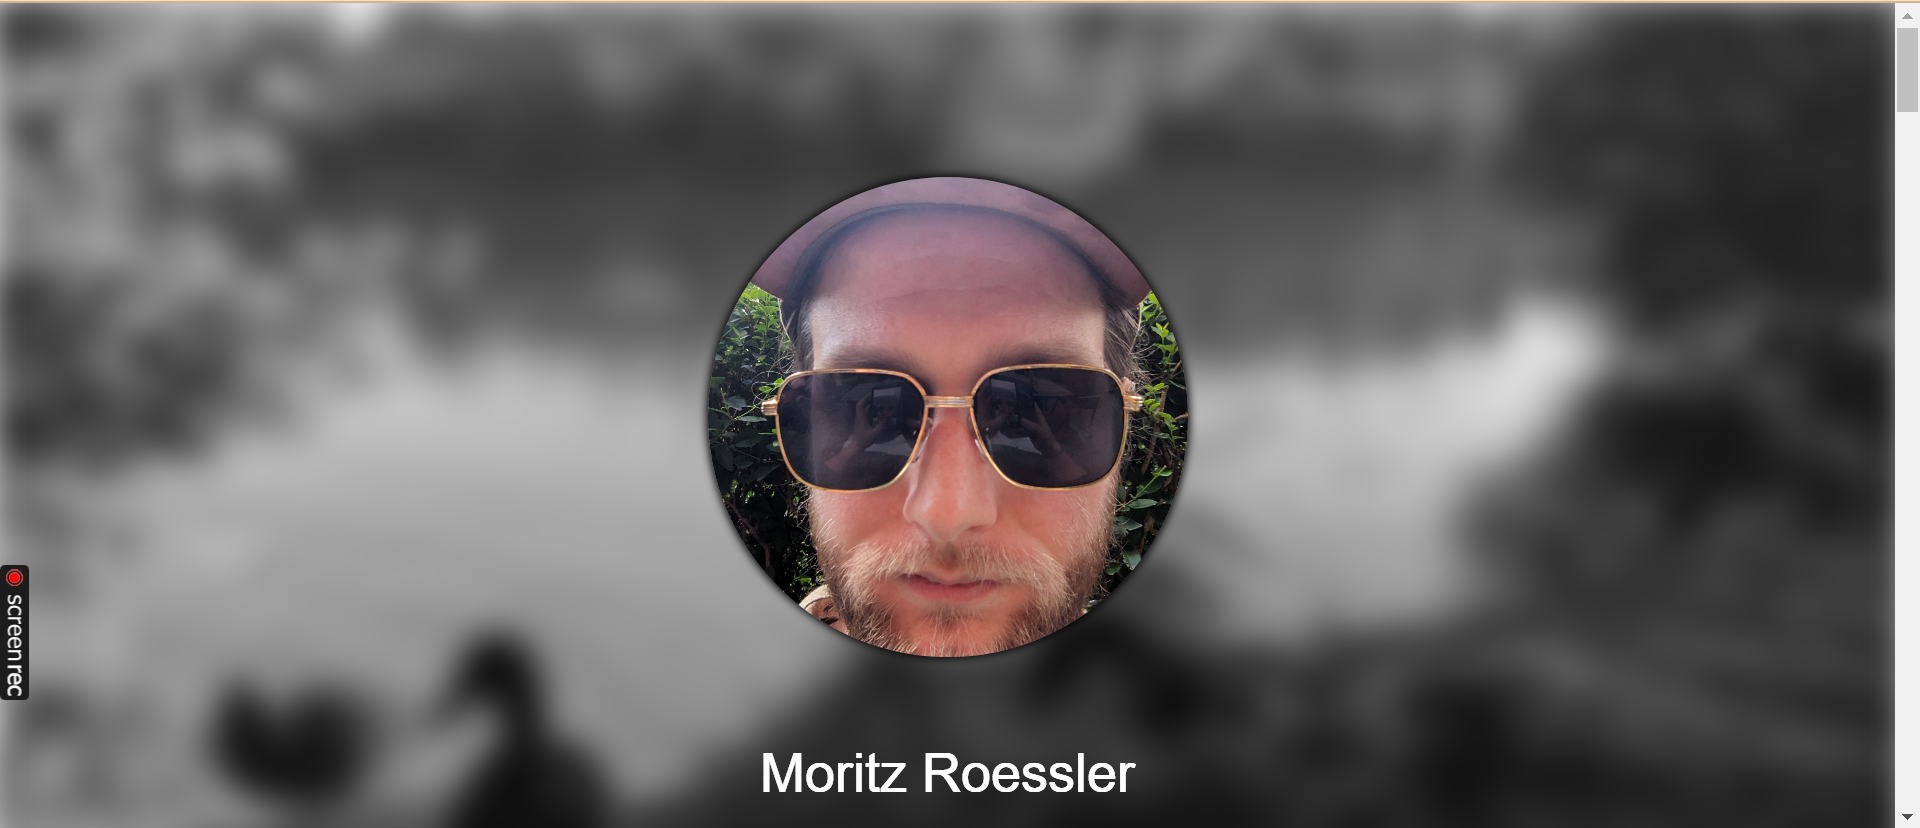
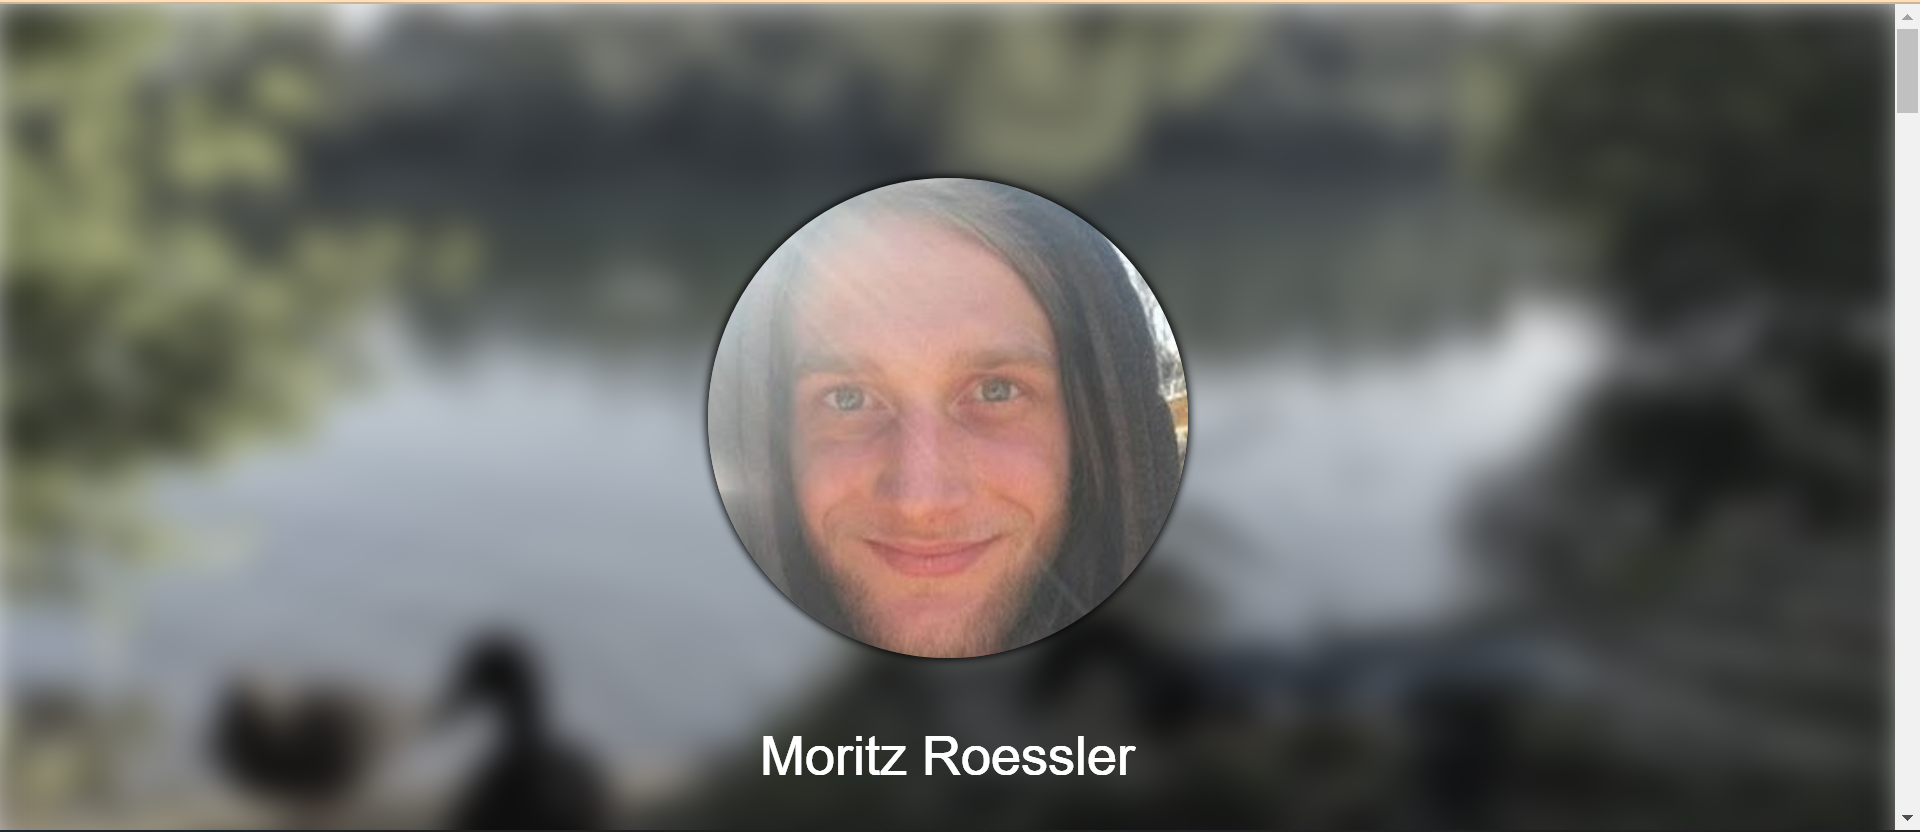
fix: use better images

diff --git a/src/components/AnimatedImageCircle.tsx b/src/components/AnimatedImageCircle.tsx
@@ -1,10 +1,11 @@
 import clsx from 'clsx';
-import { motion, useScroll, useTransform } from 'framer-motion';
+import { easeIn, easeOut, motion, useScroll, useTransform } from 'framer-motion';
 import { useContext } from 'react';
 import { sectionCtx } from './AnimatedSection';
+import { DualImages } from './BlendedImage';
 
 export type AnimatedImageCircleProps = {
-    src: string;
+    images: string[];
     className?: string
     size?: AnimatedImageCircleSize
 }
@@ -17,7 +18,7 @@ export enum AnimatedImageCircleSize {
     sm = 'sm'
 }
 
-export const AnimatedImageCircle = ({ src, className, size = AnimatedImageCircleSize.sm }: AnimatedImageCircleProps) => {
+export const AnimatedImageCircle = ({ images, className, size = AnimatedImageCircleSize.sm }: AnimatedImageCircleProps) => {
     const clsn = clsx("rounded-full overflow-hidden my-auto", className)
     const imgHeight = heights[size];
 
@@ -28,8 +29,9 @@ export const AnimatedImageCircle = ({ src, className, size = AnimatedImageCircle
         offset: ["start start", "end end"]
     });
 
-    const imgFilter = useTransform(scrollYProgress, [0, 0.25], ["saturate(100%)", "saturate(0%)"])
-    const opacity = useTransform(scrollYProgress, [0.25, 0.5], ["100%", "0%"])
+    const imgFilter = useTransform(scrollYProgress, [0, 0.25], ["saturate(100%)", "saturate(30%)"])
+    const opacity = useTransform(scrollYProgress, [0.2, 0.33], ["100%", "0%"], { ease: easeOut })
+    const reverse = useTransform(scrollYProgress, [0.2, 0.33], ["0%", "100%"], { ease: easeIn })
 
     return <motion.div className={clsn} style={{
         borderRadius: '1000px',
@@ -38,9 +40,10 @@ export const AnimatedImageCircle = ({ src, className, size = AnimatedImageCircle
         filter: imgFilter,
         backdropFilter: 'blur(12px)',
         boxShadow: '0px 0px 6px 1px black',
-        opacity,
+        // opacity,
         zIndex: 100,
     }}>
-        <div style={{ background: `url(${src}) center / cover`, height: '100%' }} />
+        <motion.div className="absolute h-full w-full" style={{ opacity, background: `url(${images[0]}) center / cover`, height: '100%' }} />
+        <motion.div className="absolute h-full w-full" style={{ opacity: reverse, background: `url(${images[1] || images[0]}) center / cover`, height: '100%' }} />
     </motion.div>
 }

diff --git a/src/components/BackgroundImage.tsx b/src/components/BackgroundImage.tsx
@@ -18,7 +18,7 @@ export const BackgroundImage = ({ src, invert, desat }: BackgroundImageProps) =>
 
 
 
-    const imgFilter = useTransform(scrollYProgress, invert ? [1, 0.75] : [0, 0.25], ["saturate(0%) blur(12px)", "saturate(100%) blur(0px)"]);
+    const imgFilter = useTransform(scrollYProgress, invert ? [1, 0.75] : [0, 0.25], ["saturate(30%) blur(12px)", "saturate(100%) blur(0px)"]);
 
     return <motion.div
         style={{

diff --git a/src/App.tsx b/src/App.tsx
@@ -26,7 +26,7 @@ function App() {
         <Parallax distance={320 * 0.5} offset={320 * 0.5}>
           <FlyOut range={[0.25, 0.5]}>
             <Container>
-              <AnimatedImageCircle src="/images/profile.jpg" />
+              <AnimatedImageCircle images={["/images/profile.jpg", "/images/profile2.jpg"]} />
             </Container>
           </FlyOut>
         </Parallax>
